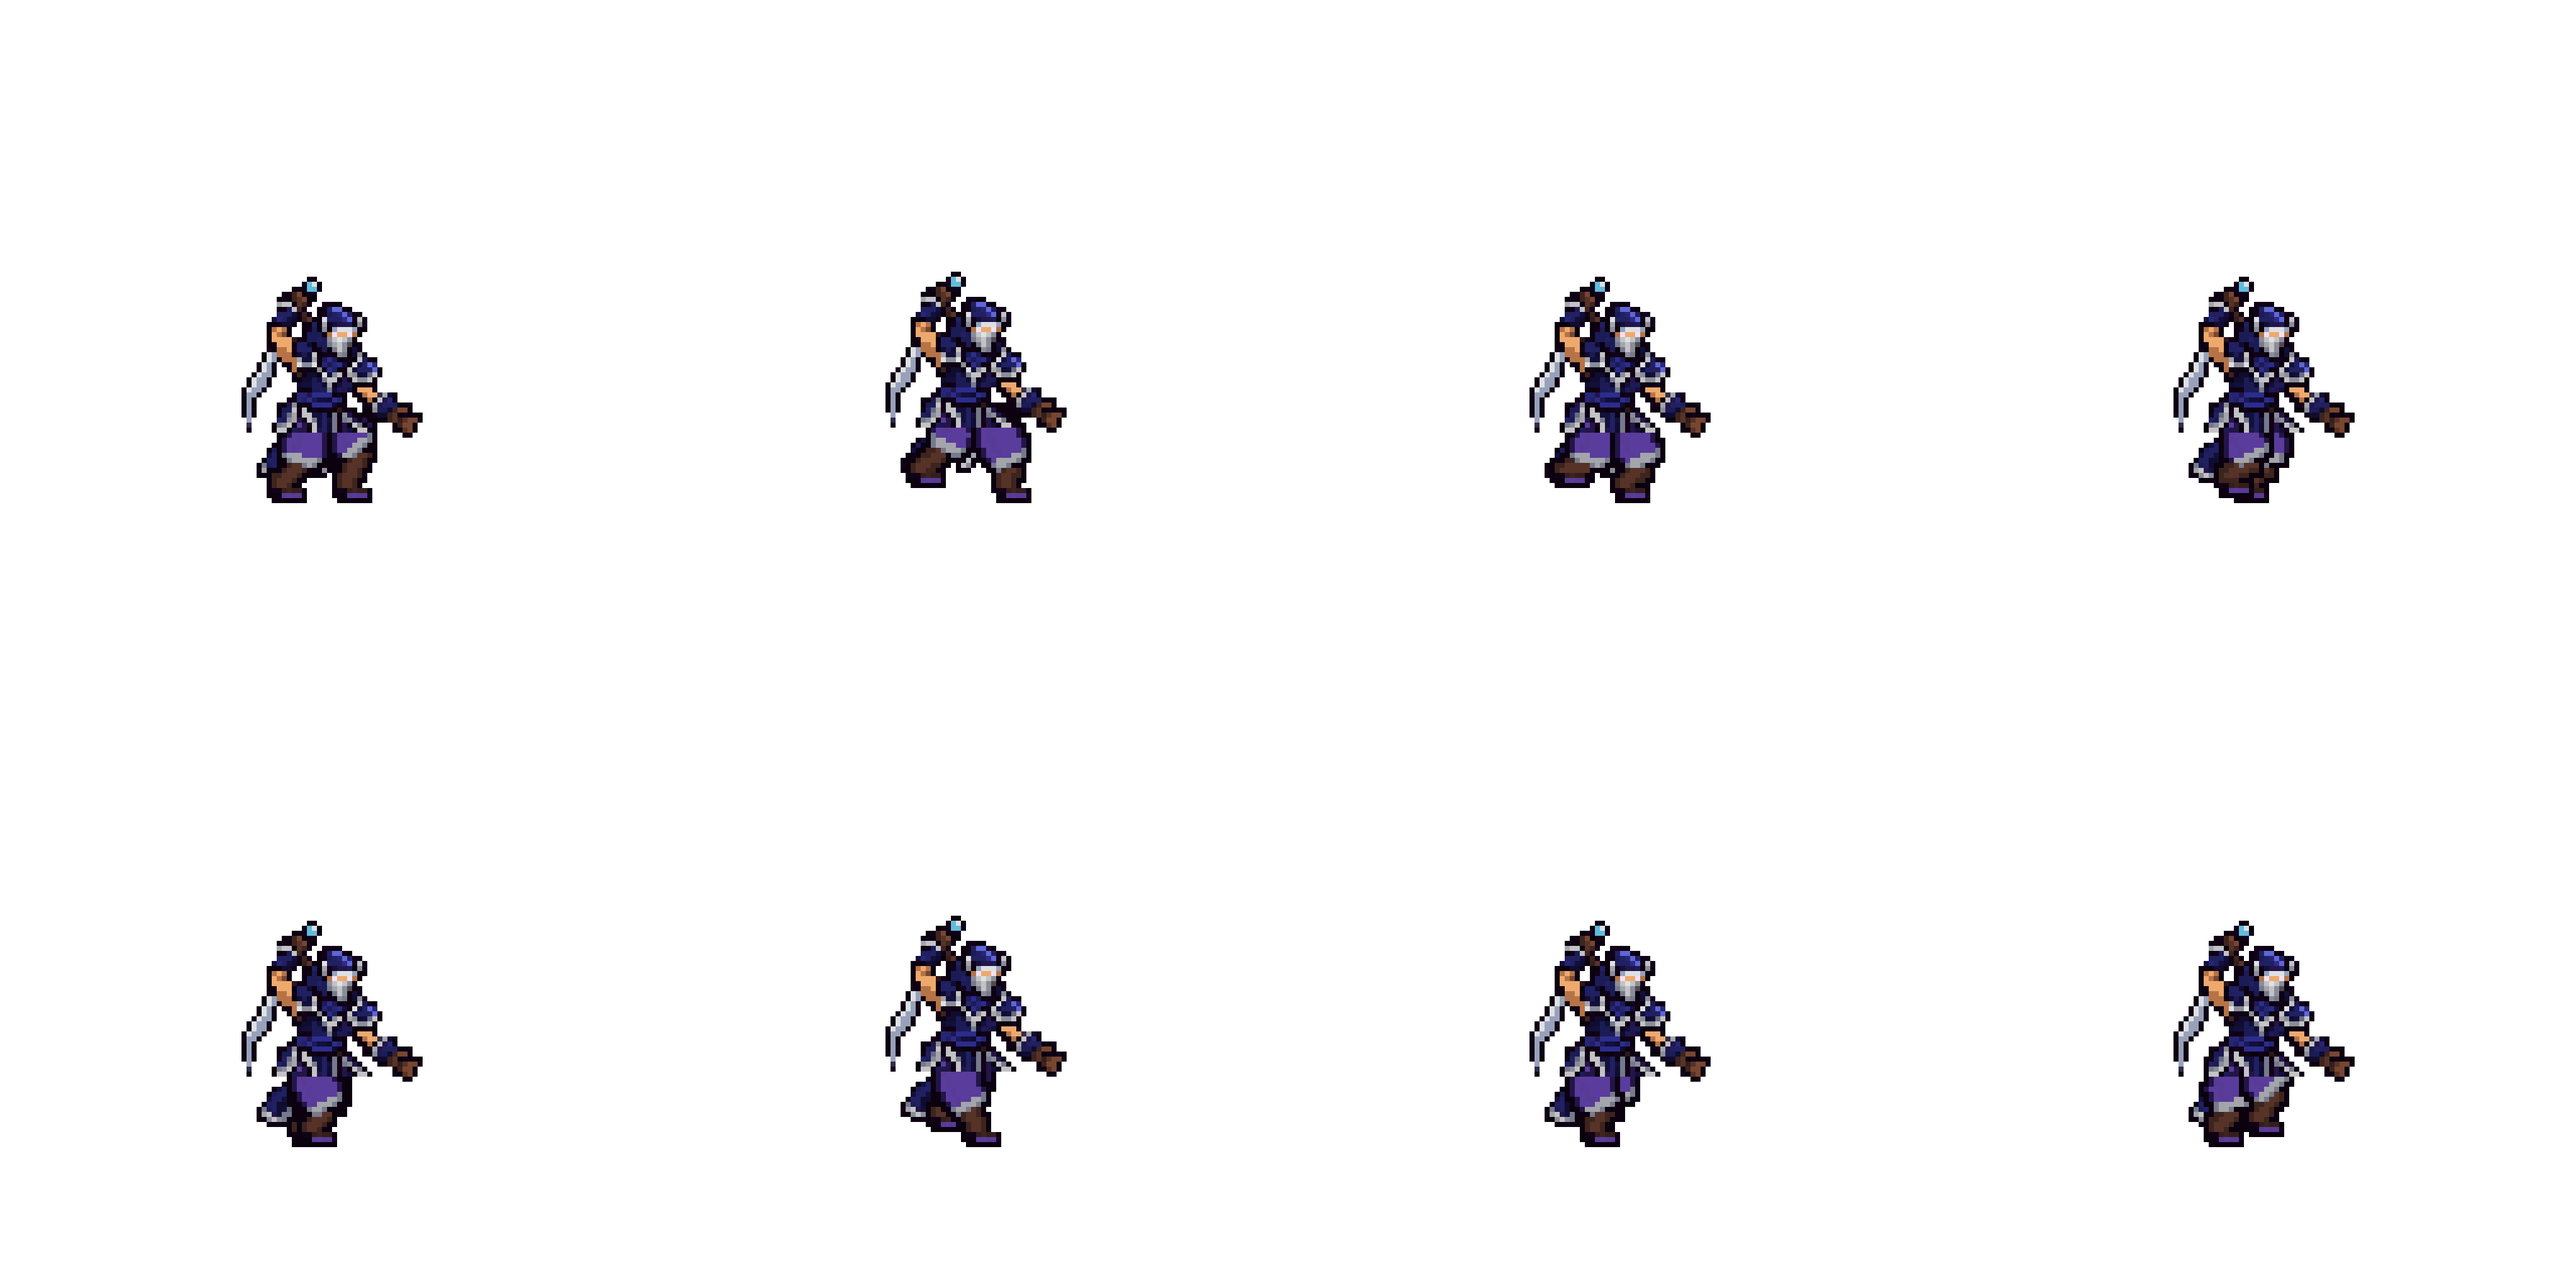
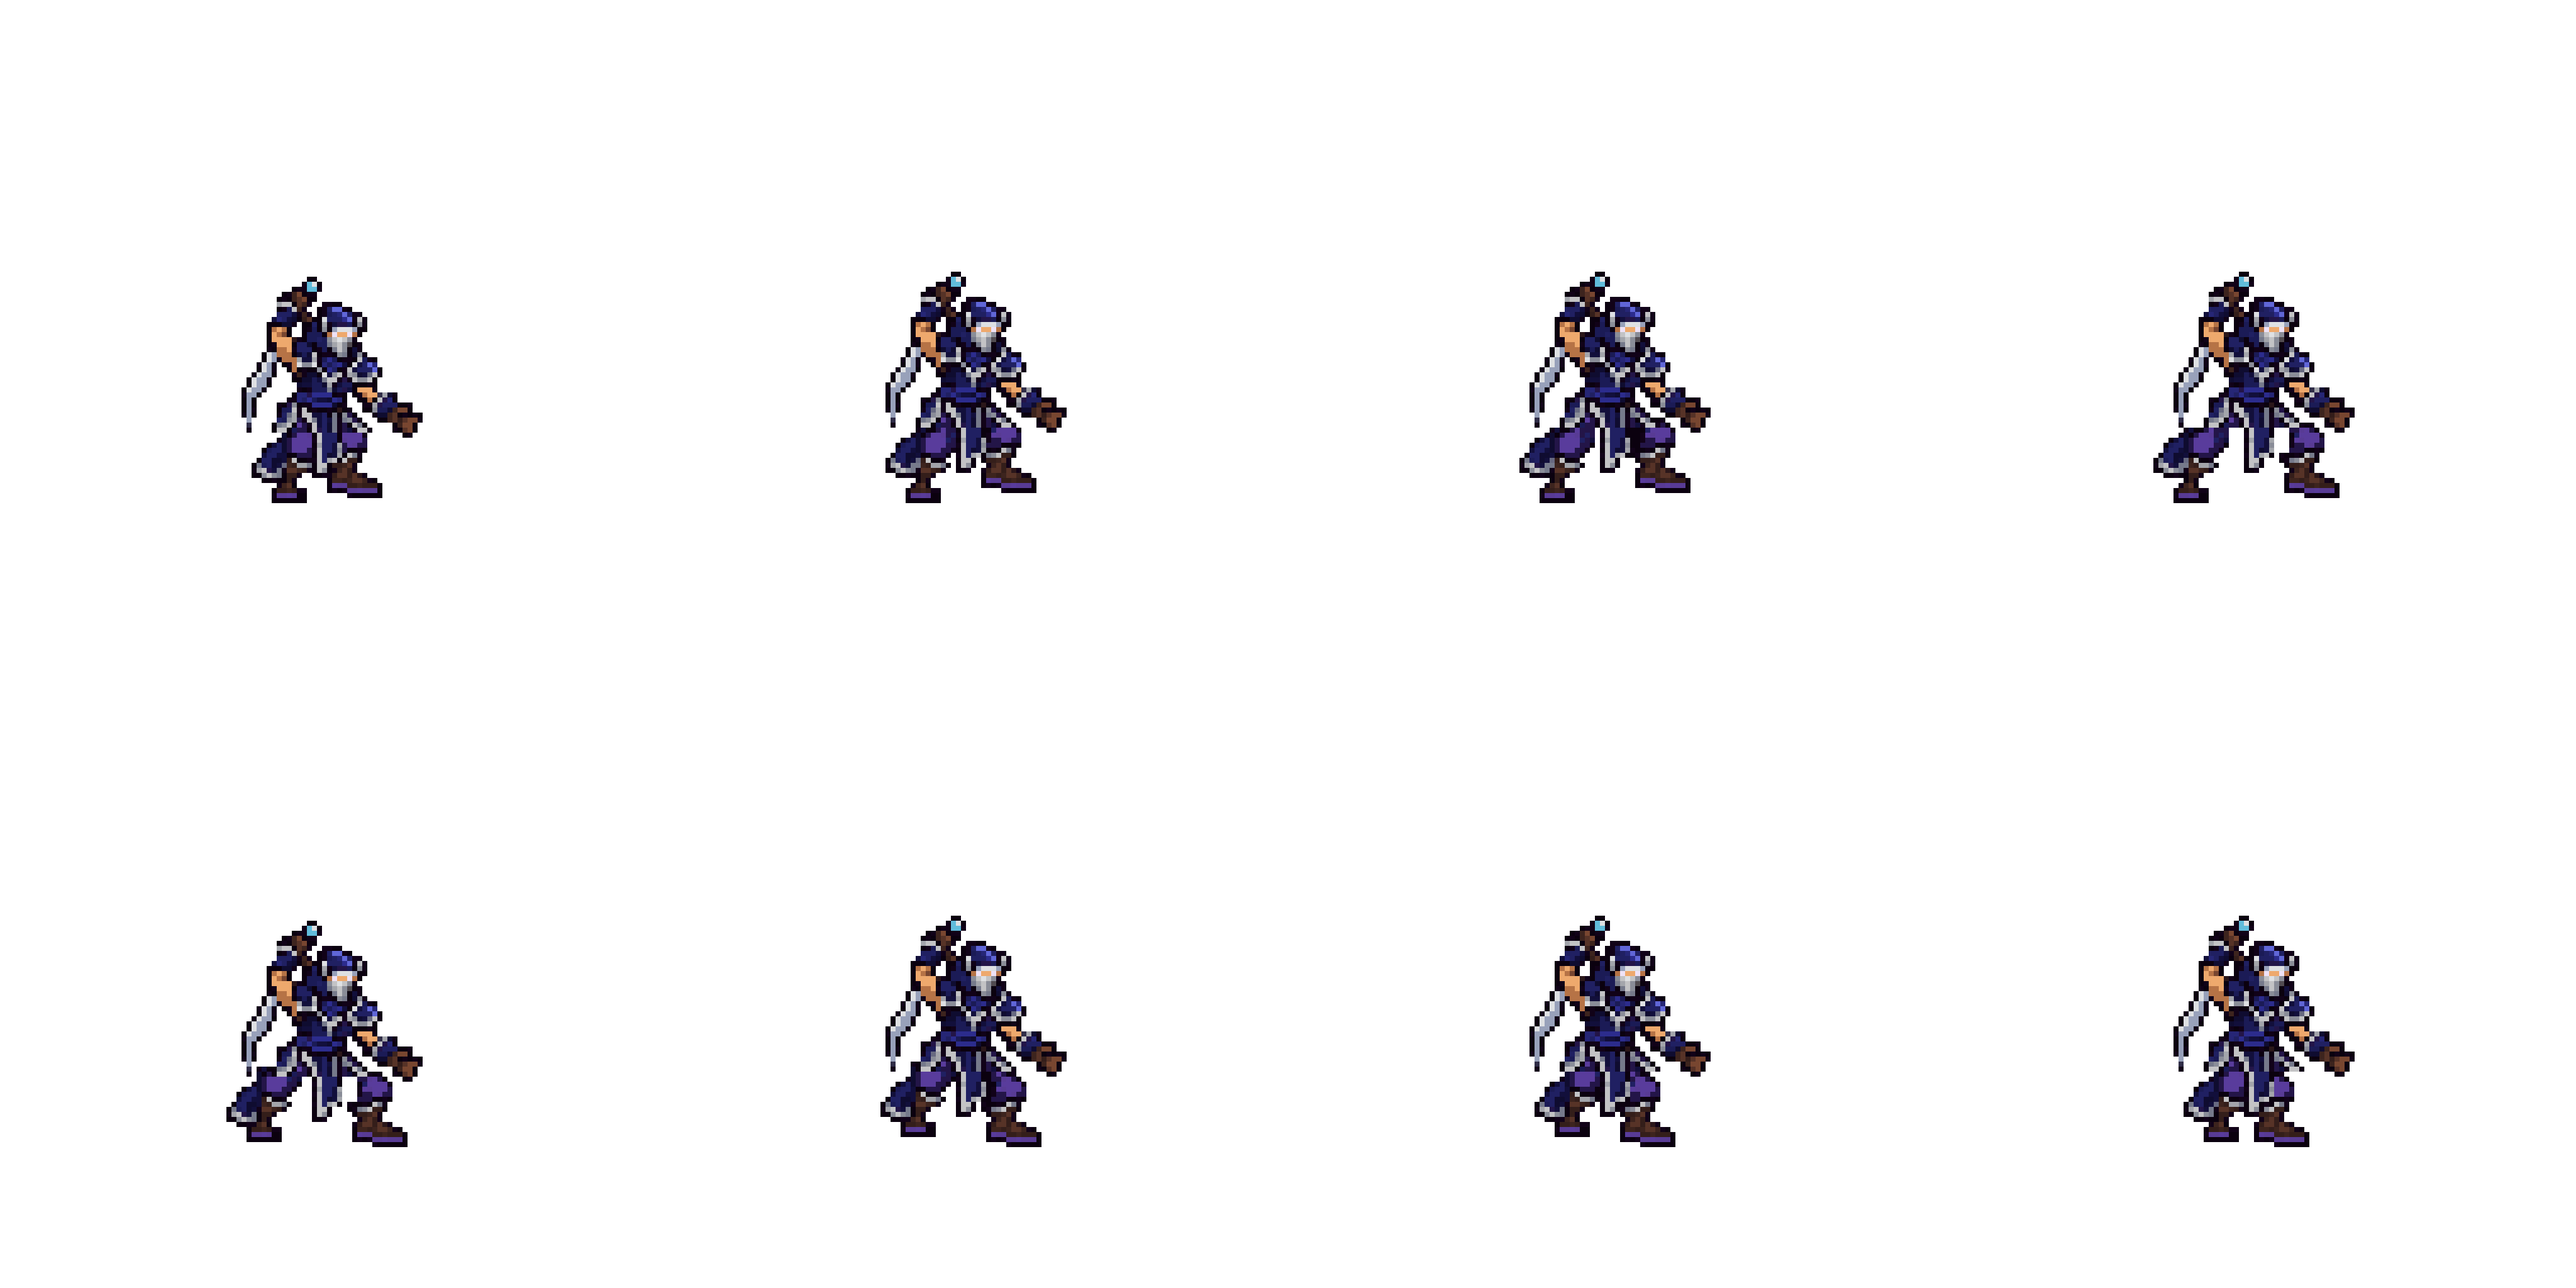
Shen (#85): run = a trot of the design's own legs, nothing redrawn
The joint-drawn legs were rejected too (flat purple, a stray boot: 「颜色都不一致」
「不是严重变形吗」). Each leg is now the design's leg moved whole on its own side (planted
sliding back, then swinging forward lifted 1-2 rows), the body sinking a row as a foot
lands; the slit a moved leg opens beside the apron is closed in the apron's shade.

diff --git a/tools/art/fix_shen_strips.py b/tools/art/fix_shen_strips.py
@@ -19,9 +19,9 @@ then made "final" copies itself by resizing and re-quantising them: those are bl
   3. stand it where League's frame stands: its lowest row on League's lowest row (the soles' row for a grounded frame),
      its eyes on League's head column (else its middle on League's);
   4. clear specks (pieces of fewer than SPECK squares apart from the body) and close the outline.
-The idle is the design square for square, breathing (the body above the sash sinks over the legs); the run is the
-design's body over legs drawn from League's run joints (run_shen_legs.py). Q and R start from the design itself
-(League's casts start from the idle pose).
+The idle is the design square for square, breathing (the body above the sash sinks over the legs); the run is a trot
+of the design's own legs moved whole (TROT). Q and R start from the design itself (League's casts start from the idle
+pose).
 """
 import argparse
 import json
@@ -49,9 +49,15 @@ Z = 8
 SOLES, MID = 99, 64
 PIVOT = (MID, SOLES - 11)
 CANVAS_SQUARE = 1254 / 128
-# The run: the design's body over legs drawn from League's run joints (tools/art/run_shen_legs.py). Codex's two
-# skin-swap runs (assets/source/shen/codex_run_swap) were rejected: the passing frames squeezed both hakama legs into
-# one cone, the redo ballooned them into a squat; the first run (the design's own legs moved whole) could not cross.
+# The run: a trot of the design's own legs, nothing redrawn (the user: 「腿别变形」「脚也别变形」「颜色都不一致」 after
+# Codex's two skin swaps and legs drawn from League's joints were all rejected). Each leg is the design's leg (rows
+# 85-99, the boot included) moved whole: on its own side, planted 4 frames sliding back, then 4 frames swinging
+# forward lifted 1-2 rows; the two legs half a cycle apart; the body (rows <= 84) sinks 1 row as a foot lands; the
+# tail hem rides with the near leg (it hangs behind it), the apron stays with the body in front.
+TROT = [(3, 0), (1, 0), (-1, 0), (-3, 0), (-2, 1), (0, 2), (2, 2), (3, 1)]   # (columns from the stance, rows up)
+TROT_NEAR, TROT_FAR = 0, 4
+TROT_BOB = [1, 0, 0, 0, 1, 0, 0, 0]
+LEG_TOP = 85
 EYE = (239, 226, 246)
 SPECK = 4
 
@@ -61,7 +67,7 @@ TAGS = {
     # the idle breathes without a cut: the body above the sash (and the whole near hand) sinks over the legs, which stay
     # square for square (import_native's idle_breathe cut two rows out of the trousers, boots, apron and tail hem)
     "idle": [(("breath", n), 140) for n in (0, 0, 1, 2, 2, 2, 1, 0)],
-    "run": [(("legs", k), 100) for k in range(1, 9)],
+    "run": [(("trot", k), 100) for k in range(1, 9)],
     "attack": [(f"attack_{k}", ms) for k, ms in zip(range(1, 7), (50, 60, 60, 90, 80, 60))],
     # Q: Codex's four frames were four bodies (frame 4 tall and thin); the palm push is one drawing held
     # (League's Q starts from the idle pose: the design itself, so the cast starts without a jump)
@@ -343,11 +349,50 @@ def action_frame(name, tag, k, pal, lol, ref):
     return a, s, f
 
 
-def legs_frame(k):
-    import run_shen_legs as RL
-    if not hasattr(legs_frame, "cache"):
-        legs_frame.cache = RL.frames()
-    return legs_frame.cache[k - 1]
+def masked(des, rows, cols_by_row):
+    """The design's squares in the given rows, each row limited to its column range (inclusive)."""
+    out = np.zeros_like(des)
+    for y in rows:
+        c0, c1 = cols_by_row(y)
+        out[y, c0:c1 + 1] = des[y, c0:c1 + 1]
+    return out
+
+
+def trot_parts(des):
+    tail = masked(des, range(LEG_TOP, 95), lambda y: (46, 53 if y >= 91 else 52))
+    apron = masked(des, range(LEG_TOP, 94), lambda y: (62, 65 if y >= 91 else 67))
+    far = masked(des, range(LEG_TOP, 100), lambda y: (68, 75) if y <= 90 else (66, 77))
+    near = masked(des, range(LEG_TOP, 100),
+                  lambda y: (53, 61) if y <= 90 else ((54, 59) if y <= 92 else ((53, 58) if y <= 94 else (51, 57))))
+    upper = des.copy()
+    upper[LEG_TOP:, :78] = 0
+    upper[LEG_TOP + 2:] = 0
+    return upper, tail, apron, far, near
+
+
+def trot_frame(k, des):
+    upper, tail, apron, far, near = trot_parts(des)
+    bob = TROT_BOB[k - 1]
+    ndx, nup = TROT[(k - 1 + TROT_NEAR) % 8]
+    fdx, fup = TROT[(k - 1 + TROT_FAR) % 8]
+    can = np.zeros_like(des)
+    for part, dx, dy in ((tail, ndx, bob), (far, fdx, -fup), (near, ndx, -nup), (apron, 0, bob), (upper, 0, bob)):
+        p = shift(part, dx, dy)
+        m = p[..., 3] > 0
+        can[m] = p[m]
+    can[SOLES + 1:] = 0
+    # a leg moved away from the apron opens a slit between them (the idle's parts touch): closed in the apron's shade
+    op = can[..., 3] > 0
+    lab, n = ndimage.label(ndimage.binary_fill_holes(op) & ~op)
+    for i in range(1, n + 1):
+        h = lab == i
+        if h[:LEG_TOP].any() or h.sum() > 24:
+            continue
+        ring = ndimage.binary_dilation(h, np.ones((3, 3))) & op
+        cols, counts = np.unique(can[ring][:, :3], axis=0, return_counts=True)
+        can[h, :3] = cols[counts.argmax()]
+        can[h, 3] = 255
+    return can
 
 
 def sink(a, row, n):
@@ -412,8 +457,8 @@ def build(only=None):
                 a = des.copy()
             elif isinstance(src, tuple) and src[0] == "breath":
                 a = breath(des, src[1])
-            elif isinstance(src, tuple) and src[0] == "legs":
-                a = pinholes(legs_frame(src[1]))
+            elif isinstance(src, tuple) and src[0] == "trot":
+                a = pinholes(trot_frame(src[1], des))
             elif isinstance(src, tuple) and src[0] == "sink":
                 a = sink(frame(src[1]), src[2], src[3])
             else:
